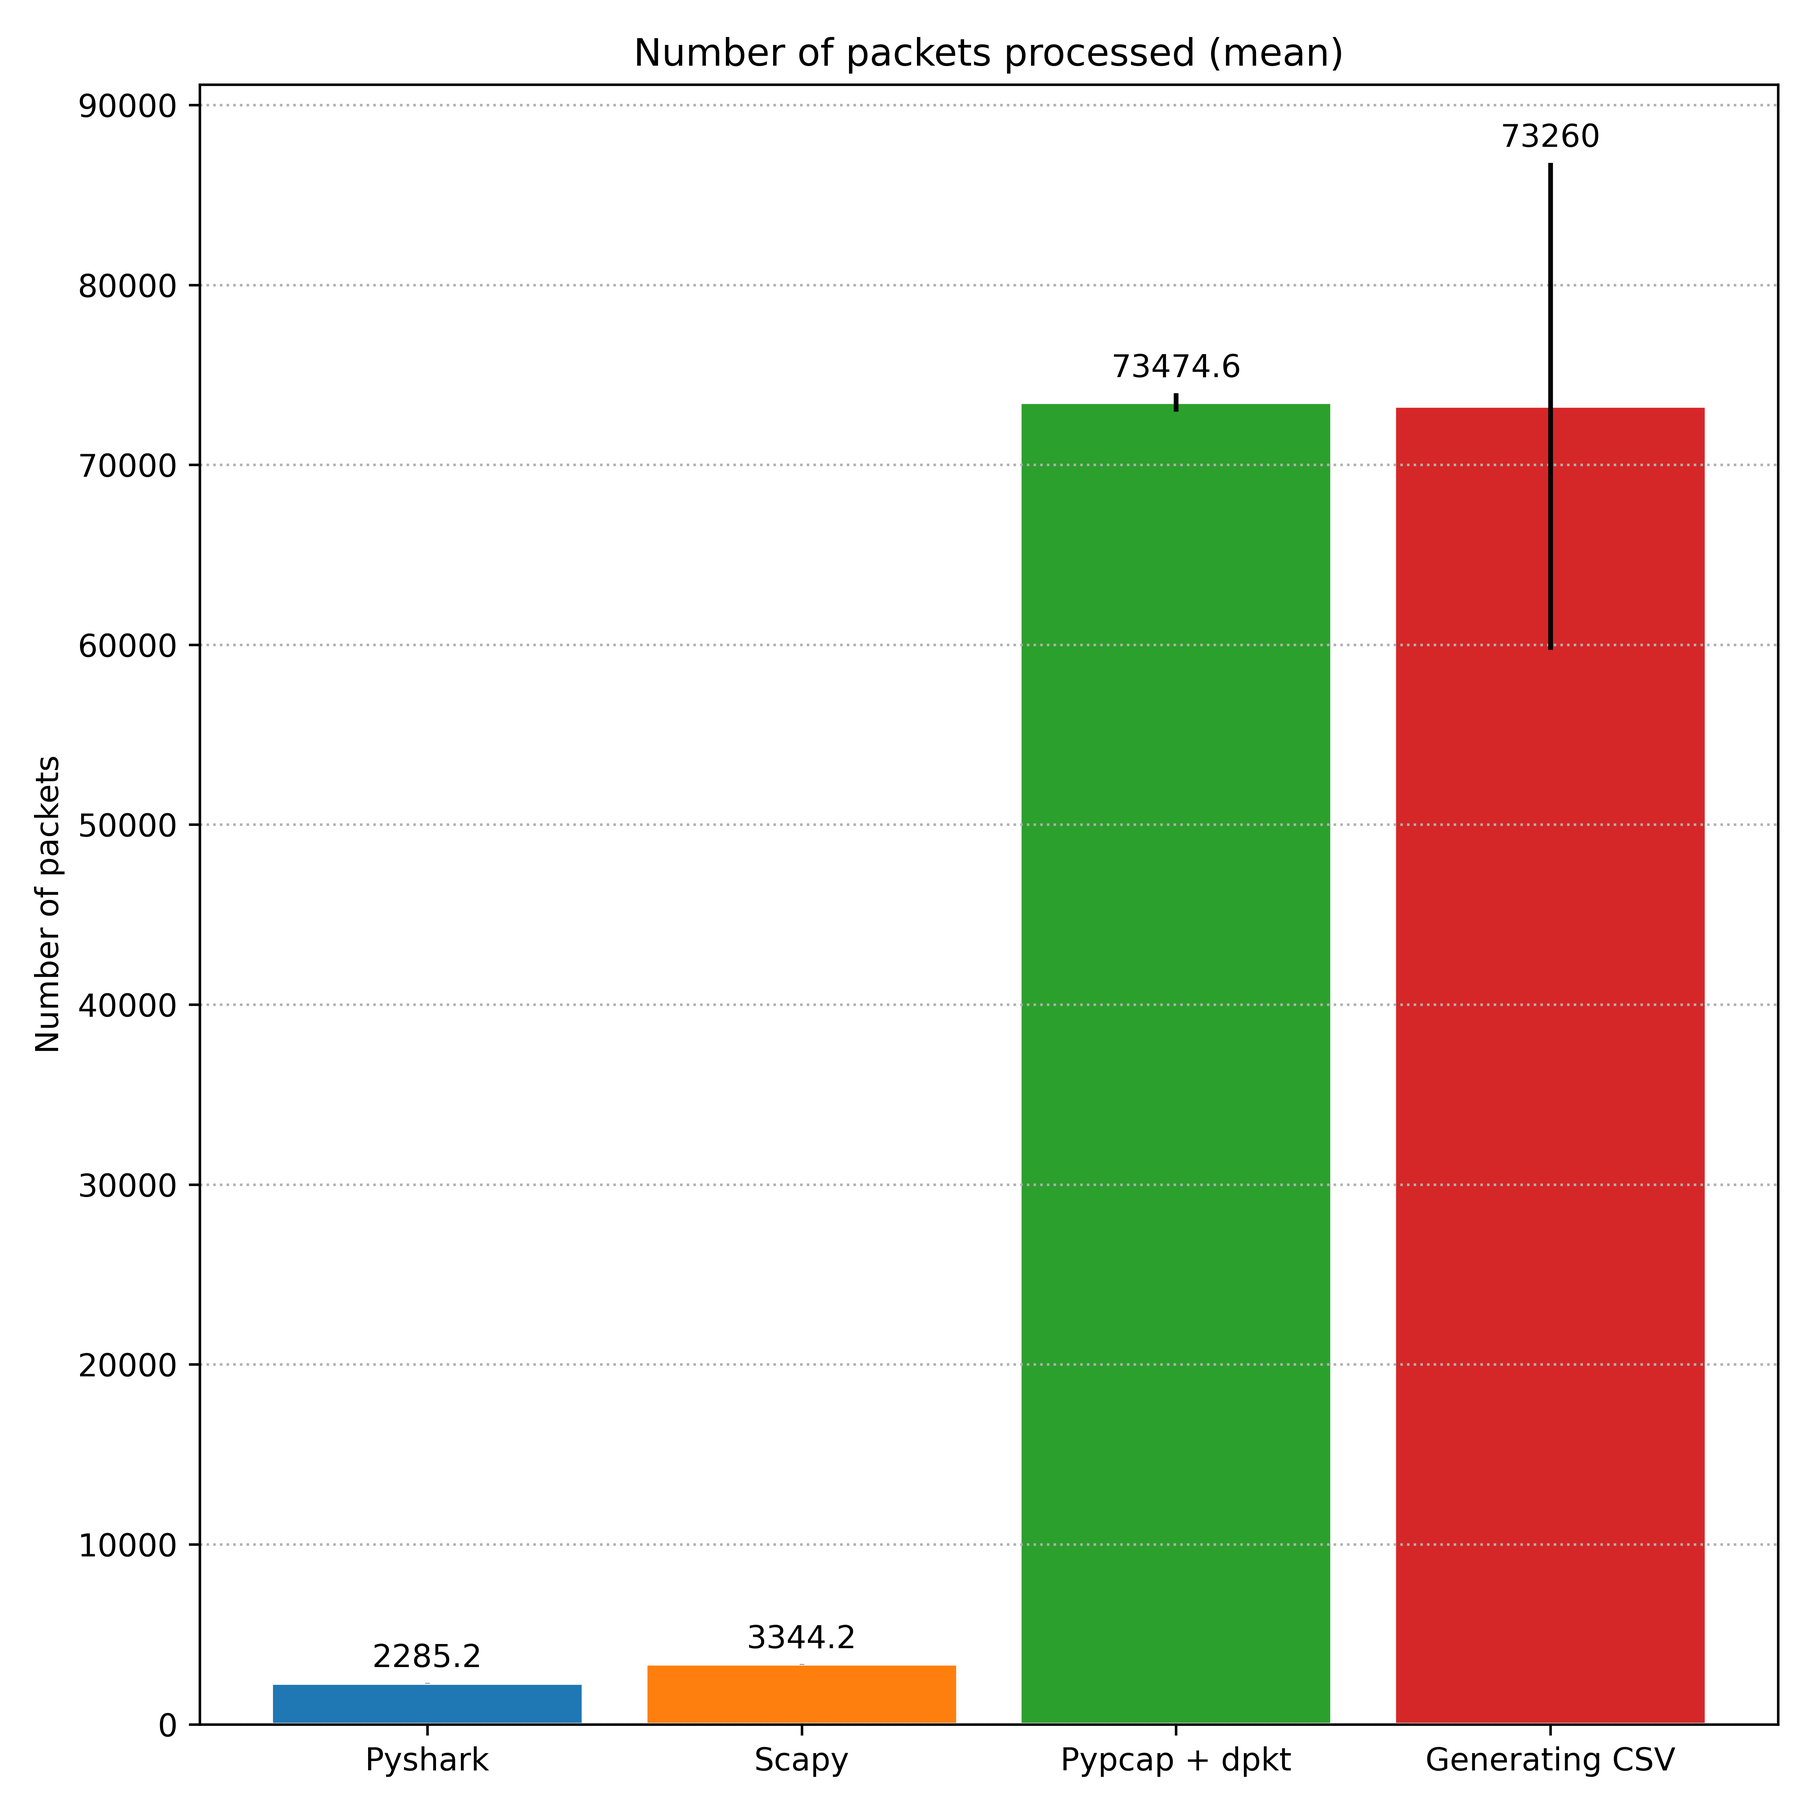
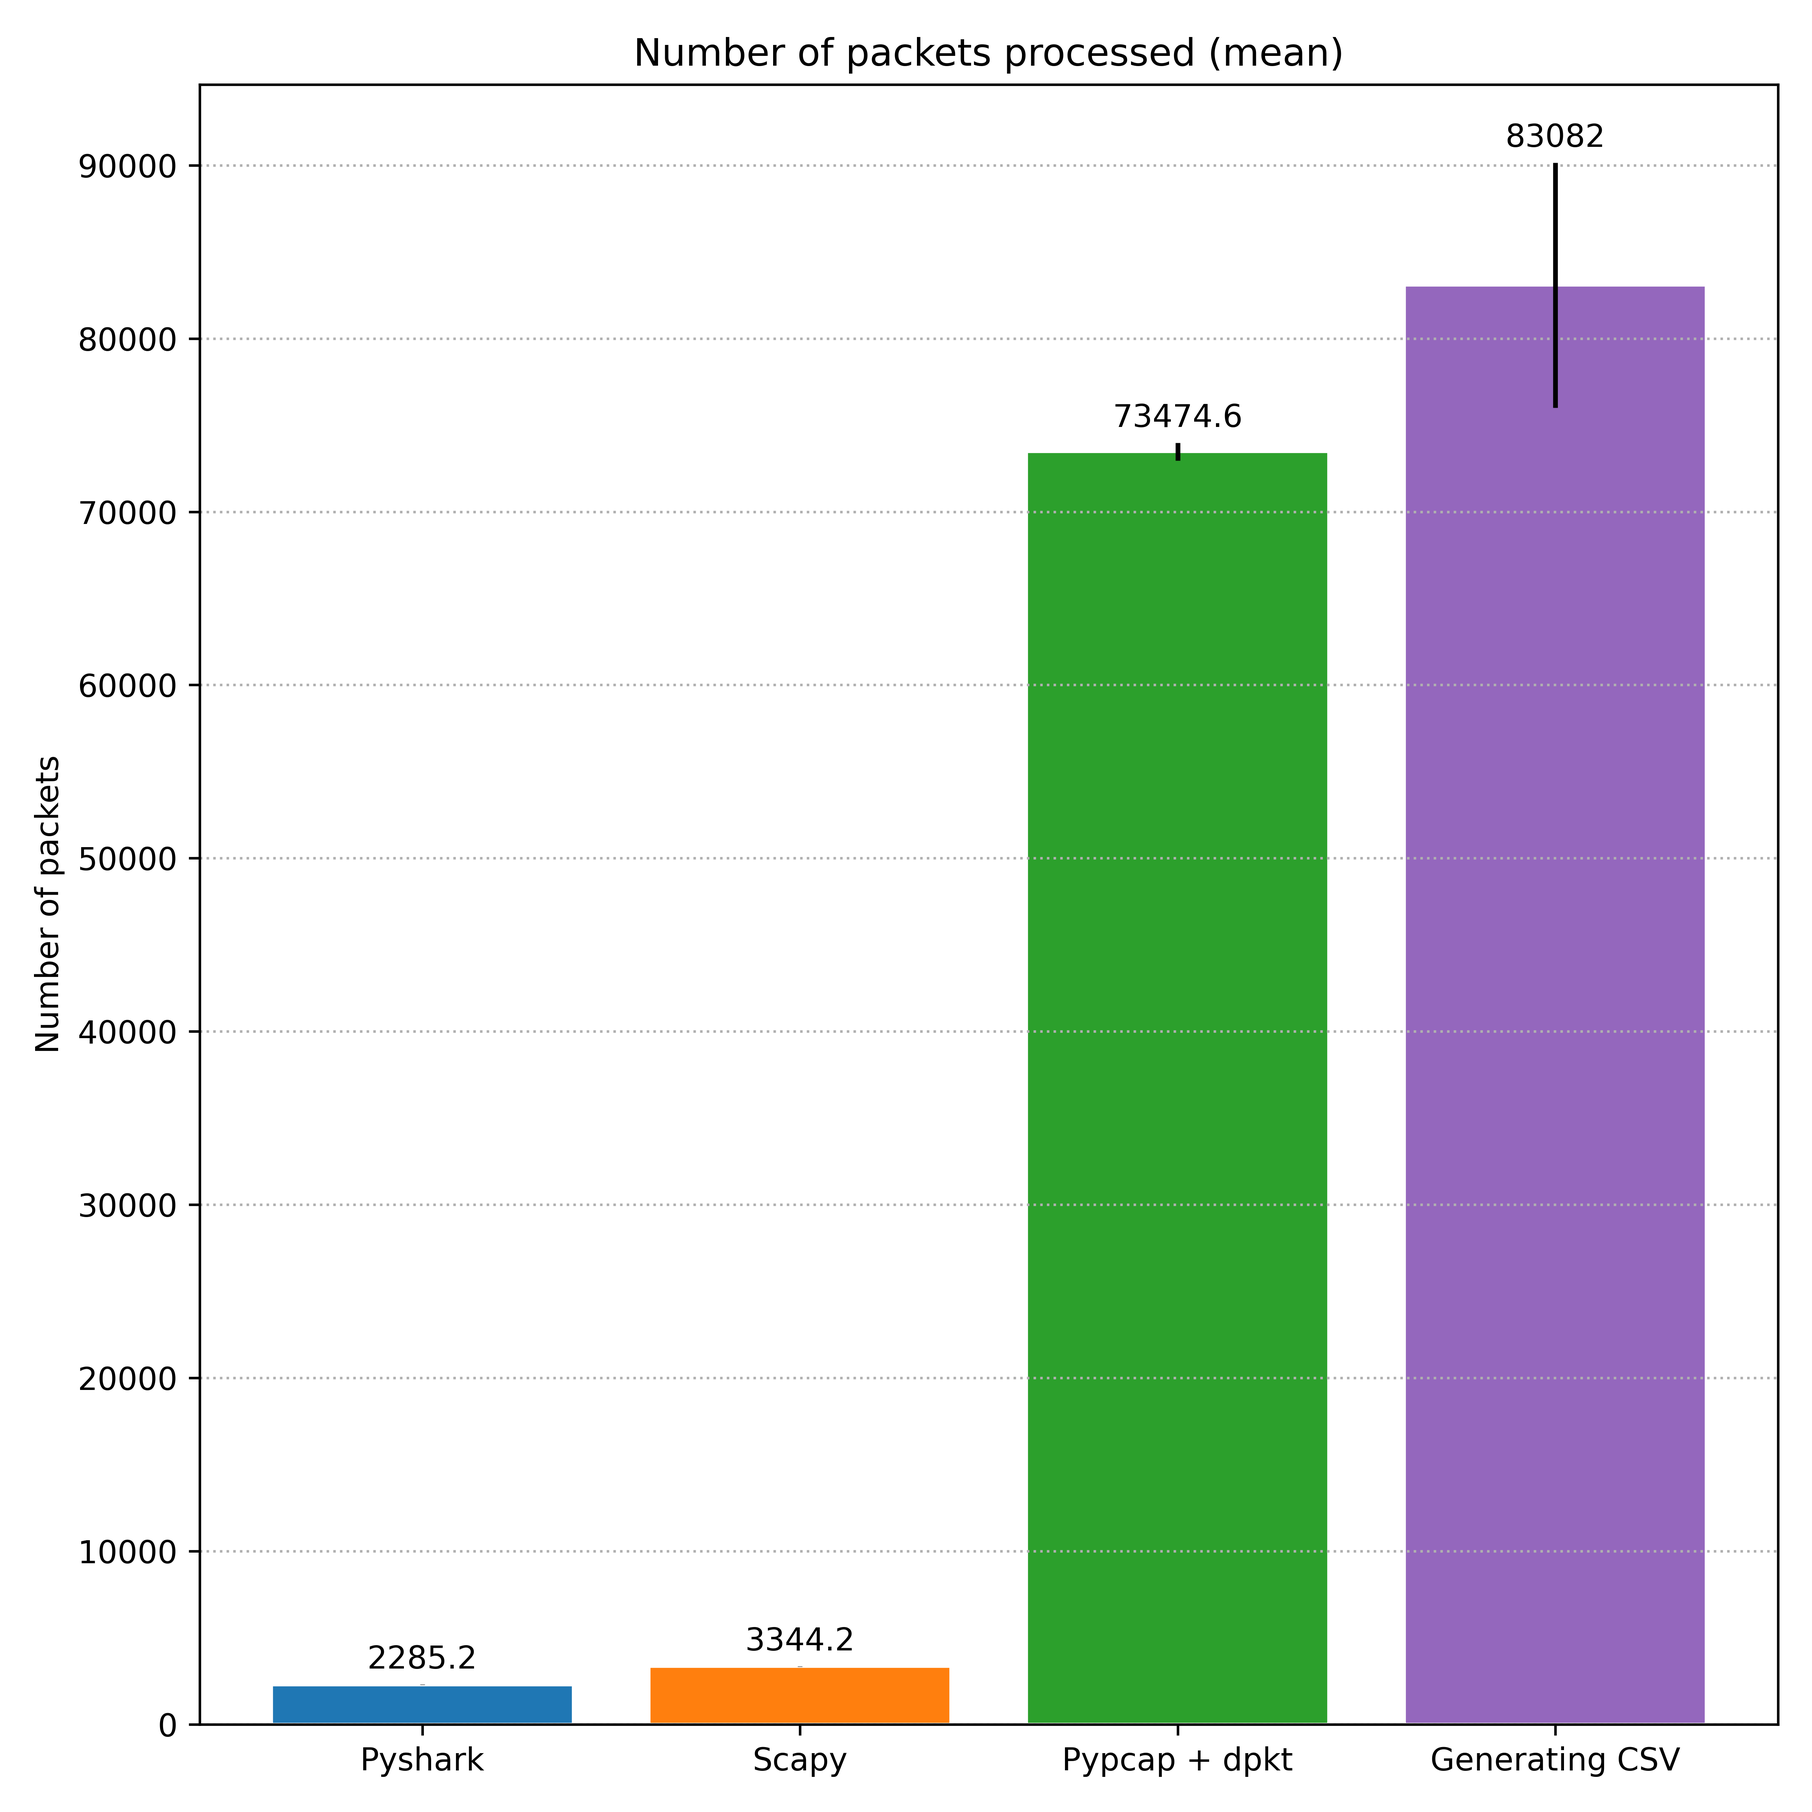
post: final research checkpoint 12

diff --git a/_posts/2025-04-23-research-12.md b/_posts/2025-04-23-research-12.md
@@ -1,16 +1,15 @@
 ---
-title: "DRAFT: Research checkpoint #12: a DDoS attack against a more powerful machine"
+title: "Research checkpoint #12: a DDoS attack against a more powerful machine"
 date: 2025-04-23 12:00:00 -0300
 categories: [Undergraduate Research Project]
 tags: [computer-networks, security, IoT, ML]
-hidden: true
 ---
 
 In [post #10](https://otavioolsilva.github.io/posts/research-10/) from this series on my scientific initiation research, I discussed the results of simulating a DDoS attack against a Raspberry Pi 3B, trying to perform the packet sniffing on the live network traffic in the same way we were doing in the last experiments. Also, in the [last post](https://otavioolsilva.github.io/posts/research-11/), I proposed a new step after the sniffing: to register the packets as CSV files, to further use them as a dataset for Machine Learning (ML) models. Advancing these studies, in this post I report a new simple experiment with simulated network traffic and performing an attack against a more powerful machine, trying to generate the CSV from this data to allow us to compare its performance with the Raspberry Pi.
 
 ## Simulating network traffic with a more powerful machine
 
-From this set of experiments, the roles of client and server were inverted between the Raspberry and the normal computer. The machines used for this set of experiments, connected in the same local network, are:
+On this set of experiments, the client and server roles were inverted between the Raspberry Pi and the regular computer. The machines used for this set of experiments, connected in the same local network, are:
 
 - Client:
     * Intel(R) Core(TM) i7-6700K CPU @ 4.00GHz
@@ -28,26 +27,30 @@ The client used this [Bash script](https://github.com/otavioolsilva/ddos-detecti
 
 ### Netwox with conversion to CSV using limited window
 
-Trying to get to the limit of our sniffing script, in this experiment I submitted the most performatic scenario from the CSV generation studies (window of size 10 and buffer with 5000 positions) to the flood traffic generated by netwox.
+Trying to get to the limit of our sniffing script, in this experiment I performed the CSV generation without the intermediary PCAP using a window of size 10 and a buffer with 20000 positions, similar to the most performatic configuration we found in our previous experiments, but with adjusts in the buffer size, as now the traffic considered is the flood generated by netwox. The duration of the attacks were the same.
 The metrics collected are:
 
-| Metric                            | Mean     | Standard Deviation | Min      | Max      |
-|-----------------------------------|----------|--------------------|----------|----------|
-| CPU usage                         | 57.38%   | 7.81%              | 48.0%    | 68.4%    |
-| Memory usage                      | 158392KB | 1799.20KB          | 156820KB | 161208KB |
-| Duration of execution             | 55.115s  | 2.546s             | 51.872s  | 57.751s  |
-| Number of lines in final CSV file | 7326     | 1353.48            | 5835     | 8820     |
+| Metric                            | Mean       | Standard Deviation | Min      | Max      |
+|-----------------------------------|------------|--------------------|----------|----------|
+| CPU usage                         | 67.6%      | 5.09%              | 60.9%    | 74.9%    |
+| Memory usage                      | 168995.2KB | 2284.53KB          | 166244KB | 172340KB |
+| Duration of execution             | 52.905s    | 0.503s             | 52.495s  | 53.698s  |
+| Number of lines in final CSV file | 8308.2     | 706.98             | 7358     | 9181     |
 
-Considering that each line of the final CSV file corresponds to 10 packets analysed, the amount of packets processed here is very close to the number registered in post #10 by the duo Pypcap + dpkt, as can be seen in comparison in the graph below (the duration of the attacks are the same). The library used to sniff the packets in this experiment is again Pypcap and the scripts to generate the CSV use dpkt, so the results are expected, but the standard deviation is much more significant.
+Considering that each line of the final CSV file corresponds to 10 packets analysed, the amount of packets processed here isn't so distant from the number registered in post #10 by the duo Pypcap + dpkt, a gain of only ~13%, as can be seen in comparison in the graph below. However, it is notable that the standard deviation is much more significant in this case, indicating a great variation in the values over the five executions. Even so, the minimum number of packets counted was 73580 (7358 lines in CSV), a number still bigger than the mean observed in the previous experiments. The library used to sniff the packets in this experiment is again Pypcap and the scripts to generate the CSV use dpkt.
 
 ![Graph with the number of packets processed of post 10 and this one.]({{ '/assets/img/2025-04-23-research-12/packets-netwox.png' | relative_url }}){: .w-75}
 _Number of packets processed by the libraries in post 10 compared with the one in our experiment here._
 
-I don't have the exact number of packets produced by the netwox tool, but, empirically, I estimated that it is something around 120.000, so we're still losing a lot of packets, even in a better computer. The metrics of performance, however, are good, with a coherent duration of execution (there was a gap of 10 seconds before and 30 seconds after the traffic) and a controlled CPU usage.
+I don't have the exact number of packets produced by the netwox tool, as it doesn't do a report, but empirically I estimated that it is something around 120.000. The adjustment to the buffer size was considering this number, to be able to possibly store all the packets simultaneously. However, even with a better computer, we're still losing a lot of packets in the final count: if my estimates are correct, around 30% of all the traffic is not counted.
+
+The duration of the execution is coherent with what we expect, as there was a gap of 10 seconds before and 30 seconds after the traffic, totaling something close to 50 seconds. The metrics of performance are also good, with controlled CPU usage and memory. Notice that it is not possible to compare the usage of CPU observed here to the one in post 10, as here we are now processing the packets more intensively after the sniffing process. The same applies to the memory consumption, it's expected to have bigger values here.
 
 ### Iperf3, 25Mbits/s UDP
 
-With limited window of 10 packets (window of size 10 and buffer with 5000 positions):
+As we are dealing with a more powerful computer processing the packets compared to the Raspberry Pi we were using, a natural question that arises is how it will deal with the same set of experiments we did in the last post. For comparison, I performed only the executions with 25Mbits/s of bit rate, using the same process as described [here](https://otavioolsilva.github.io/posts/research-11/#studies-on-how-to-generate-csv-files-from-network-traffic). The results are as follows.
+
+- With limited window of 10 packets (window of size 10 and buffer with 5000 positions):
 
 | Metric                            | Mean      | Standard Deviation | Min      | Max      |
 |-----------------------------------|-----------|--------------------|----------|----------|
@@ -56,7 +59,7 @@ With limited window of 10 packets (window of size 10 and buffer with 5000 positi
 | Duration of execution             | 37.021s   | 2.83s              | 34.205s  | 40.259s  |
 | Number of lines in final CSV file | 2231      | 10.77              | 2212     | 2238     |
 
-With unlimited window (window of size 50000 and buffer with 10 positions):
+- With unlimited window (window of size 50000 and buffer with 10 positions):
 
 | Metric                            | Mean       | Standard Deviation | Min       | Max       |
 |-----------------------------------|------------|--------------------|-----------|-----------|
@@ -65,31 +68,38 @@ With unlimited window (window of size 50000 and buffer with 10 positions):
 | Duration of execution             | 1m32.05s   | 2.42s              | 1m30.315s | 1m36.215s |
 | Number of lines in final CSV file | 2281       | 24.04              | 2249      | 2315      |
 
-Total of packets produced by iperf3: 21584
+Considering that the total number of packets produced by iperf3 was 21584 in the transmission stream and that each line of the CSV represents 10 packets (except for the last one, which is the remainder), the loss here is zero! We have more packets than expected because this data was collected using an SSH connection, so there is another traffic in the network. But it is very interesting to see the impact that the computational capacity had on the result: we didn't lose packets using the first scenario with only 37s on average, a way better than the 5m40s of average found using the intermediary PCAP in our experiments from the last post.
 
-### Iperf3, unlimited bitrate UDP
+Comparing the obtained numbers with the ones in the same scenarios from the last post, we can see that we had a huge improvement: with limited window of 10 packets, here our average use of CPU was 25.82%, and there it was 81.40%; the same applies with the unlimited window, here we had 62.72% and there 96.62%. The most impressive number in this last case is the time of execution: here we only had 1m32s, there the average was 16m29s, and with a lower CPU usage. Very interesting! The memory usage, on another hand, isn't so discrepant, presenting a bigger value here.
 
-With limited window of 10 packets (window of size 10 and buffer with 5000 positions), 292355.2 packets on average reported by iperf3:
+Concluding, the hardware improvement has a great impact on the numbers observed. This is not a surprise, but confirms our intuitions. The challenge is how to use the most of the hardware we have, even operating on low performance computers, to always achieve good results.
 
-| Metric                            | Mean       | Standard Deviation | Min       | Max       |
-|-----------------------------------|------------|--------------------|-----------|-----------|
-| CPU usage                         | 69.04%     | 3.60%              | 62.6%     | 70.7%     |
-| Memory usage                      | 207084KB   | 442.72KB           | 206604KB  | 207700KB  |
-| Duration of execution             | 34.30s     | 0.58s              | 33.279s   | 34.708s   |
-| Number of lines in final CSV file | 6253       | 492.94             | 5398      | 6592      |
+## About a new tool: hping3
 
-With unlimited window (window of size 50000 and buffer with 10 positions), 292449.2 packets on average reported by iperf3:
+So far, we have been using netwox to generate DDoS attack simulations. Another interesting tool we discovered that can be used for this function is [hping3](https://github.com/antirez/hping). This tool provides a lot of functionalities, from just working as the regular ping command to sending custom TCP/IP packets. Some interesting options can be used to simulate a DDoS attack:
 
-| Metric                            | Mean       | Standard Deviation | Min       | Max       |
-|-----------------------------------|------------|--------------------|-----------|-----------|
-| CPU usage                         | 95.60%     | 0.50%              | 95.3%     | 96.5%     |
-| Memory usage                      | 408770.4KB | 1449.26KB          | 407696KB  | 411044KB  |
-| Duration of execution             | 4m13.053s  | 1.32s              | 4m11.404s | 4m15.088s |
-| Number of lines in final CSV file | 4627       | 85.13              | 4558      | 4767      |
+- `--rand-source`: uses random IP addresses as source for the packets.
+- `--rand-dest`: uses random IP addresses as destination for the packets. Permits also to use a mask to determine which field of the IP to randomize (e.g., '10.0.0.x' will randomize only the last field of the IPv4).
+- `--data`: can be used to adjust the packet body size.
+- `--interval`: can be used to set the number of seconds or microseconds between each packet in the transmission.
+- `--flood`: send the packets as fast as possible, can be used to try to flood the target.
+
+Many other options are listed in its [manual page](https://linux.die.net/man/8/hping3), these are just some of the ones I found to be most interesting.
+
+## Submissions to events
+
+In the last blog post, I [mentioned](https://otavioolsilva.github.io/posts/research-11/#submissions-to-events) that me and professor Daniel submitted papers to two events in our field of study, the [WTG](https://sbrc.sbc.org.br/2025/pt_br/viii-workshop-de-trabalhos-de-iniciacao-cientifica-e-de-graduacao-wtg-2025/) (Workshop on Undergraduate and Scientific Initiation Works, part of the 43º Brazilian Symposium on Computer Networks and Distributed Systems) and [WPerformance](https://csbc.sbc.org.br/2025/wperformance/) (Workshop on Performance of Computing and Communication Systems, part of the 45º Brazilian Computer Society Congress). Both of them were accepted! Soon, I'll update this section with the link to the complete publications. :)
+
+<!---
+You can find the complete articles in the links below:
+
+- [SILVA, O. O. ; BATISTA, D. M. . Adequação Online de Rastros de Tráfego de Rede nos Clientes para Alimentar Sistemas de Detecção de Intrusão. In: Workshop de Trabalhos de Iniciação Científica e de Graduação, 2025. Anais Estendidos do XLIII Simpósio Brasileiro de Redes de Computadores e Sistemas Distribuídos (SBRC 2025), 2025.](https://github.com/otavioolsilva/wtg-2025/blob/main/paper.pdf)
+- WPerformance (Revisions for the final version are in progress).
+--->
 
 ## Next steps
 
-For the next post, I'll work on joining our experiments in packet sniffing with the AI baseline models we studied before, to understand the process of connecting these ends and to do an initial analysis of the performance we can expect from doing both the sniffing and inference together. For now, our current planning is as follows:
+Including the work in this post, our current goal is to determine the best experimentation environment and to understand its limitations. Observing these results, our next steps will be on joining the packet sniffing with AI models to perform the inference of live network traffic, understanding the process of connecting these ends and performing an initial analysis of the performance we can expect from doing both the sniffing and inference together. So, our current plans are:
 
 - [X] Packet Parsing
     - [X] Conduct experiments to verify the performance of Python libraries sniffing the network and processing the packages in a Raspberry Pi (different from what we did in [post 4](https://otavioolsilva.github.io/posts/research-04/), in which we tested the lib's with the CIC-IoT-2023 dataset and in a regular computer).
